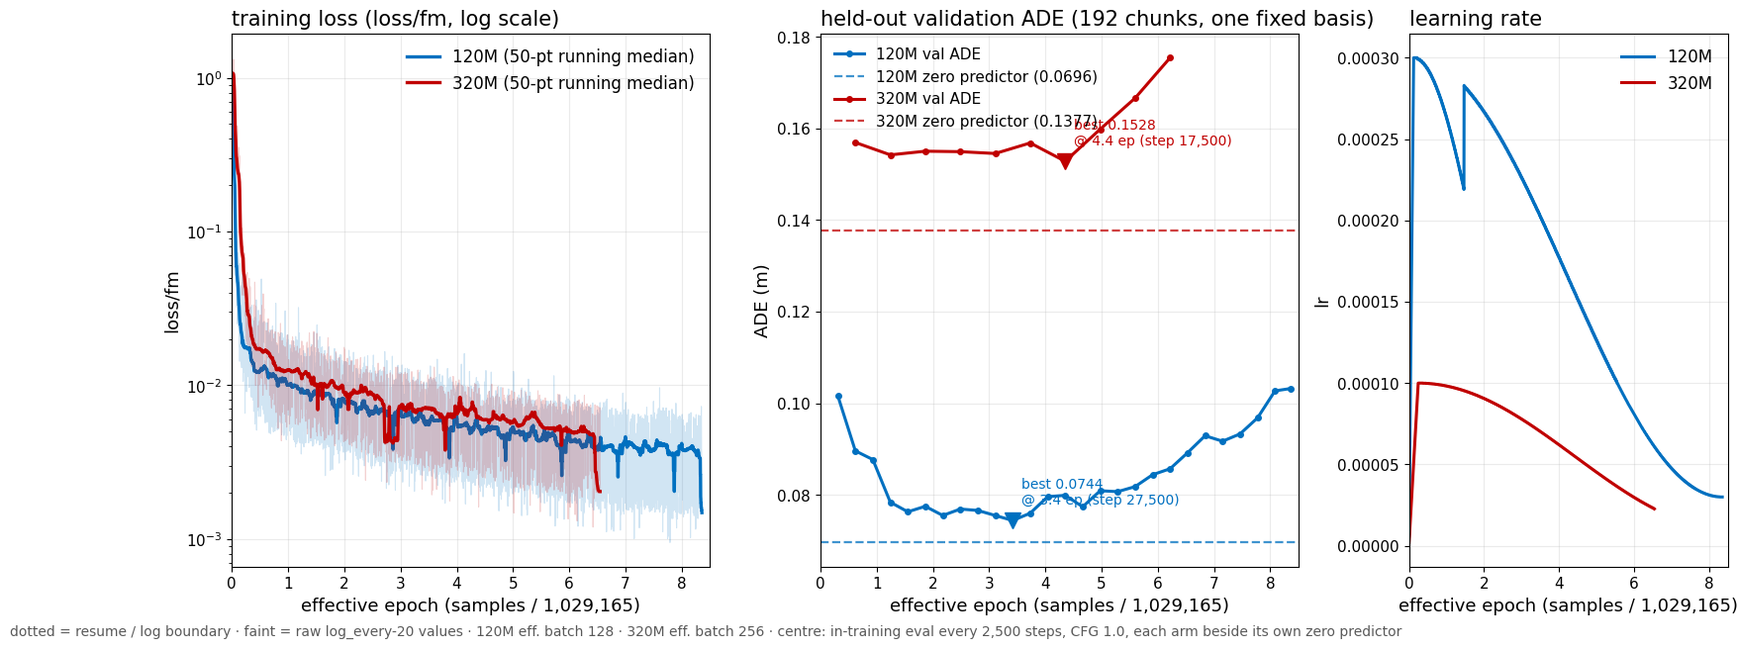
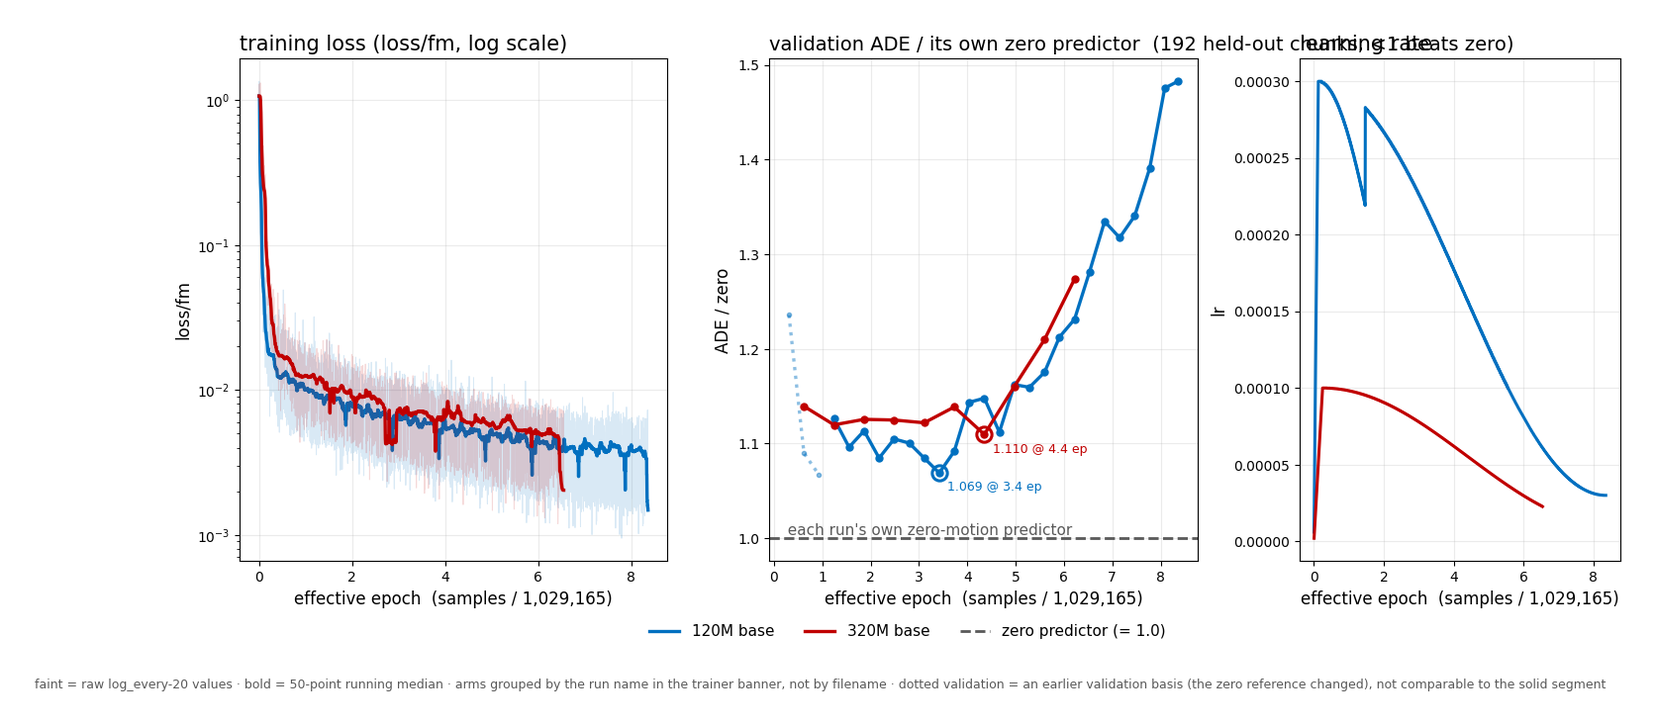
3d-wam deck #2-2: per-epoch update (2026-09-10 03:30 KST)
Claude-Session: https://claude.ai/code/session_01SMPxcWL3pAAD5cKRpfQpSb

diff --git a/experiments/3d-wam/decks/2026-09-09-s2-2-architecture-training/index.html b/experiments/3d-wam/decks/2026-09-09-s2-2-architecture-training/index.html
@@ -84,7 +84,7 @@
   .deck table.res.r5 th:nth-child(3){width:25%}
   .deck table.res.r5 th:nth-child(4){width:25%}
   .deck table.res.r5 th:nth-child(5){width:13%}
-  .deck .band.res2>figure.tb figcaption{text-align:left;font-size:1.3em}
+  .deck .band.res2>figure.tb figcaption{text-align:left;font-size:1.12em;line-height:1.28}
   /* ---- viz grids (outside the cap): 5 columns, rows = arm (5 + 4 tiles each), captions only ---- */
   .deck .s-viz h2{margin-bottom:.3em}
   .deck .s-viz .thesis{margin-bottom:.3em}
@@ -230,7 +230,7 @@
         <figcaption>The one metric and its three analyses</figcaption></figure>
     </div>
     <figure class="fig"><img src="assets/loss_curve.png" alt="Training loss and learning rate of both arms against effective epoch">
-      <figcaption>left: training loss · <b>centre: held-out validation ADE every 2,500 steps on one fixed 192-chunk basis, each arm beside its own zero predictor</b> · right: learning rate · 120M (blue), 320M (red) · loss/fm = masked MSE on the flow target, log_every 20; bold = 50-point running median, faint = raw; dotted = resume / log boundary (120M: steps 9,213 → 2 GPU, 11,814 → 4 GPU; schedule extended to 67,200 at 11,814) · regenerated from season2/logs at every deck update</figcaption></figure>
+      <figcaption>left: training loss · <b>centre: held-out validation ADE &divide; each run&rsquo;s OWN zero predictor, every 2,500 steps (1.0 dashed = the zero predictor; below 1.0 would beat it &mdash; neither base ever does; dotted = an earlier validation basis, excluded)</b> · right: learning rate · 120M (blue), 320M (red) · loss/fm = masked MSE on the flow target, log_every 20; bold = 50-point running median, faint = raw; dotted = resume / log boundary (120M: steps 9,213 → 2 GPU, 11,814 → 4 GPU; schedule extended to 67,200 at 11,814) · regenerated from season2/logs at every deck update</figcaption></figure>
   </div>
   <p class="footnote">mEPE = EPE3D on the moving subset (after Chodosh 2023) with the zero-velocity reference (Martinez 2017); owner-confirmed 09-09 14:10 · TACO Je/Te/Re companion · training logs season2/logs/</p>
 </section>
@@ -256,7 +256,7 @@
 </div>
 <!-- /GEN -->
   <!-- GEN:etabar -->
-<p class="etabar"><b>ETA</b> (from 03:20 KST) · <b>120M base</b>: all reads in &nbsp;|&nbsp; <b>320M base</b> · ep07 lands 03:24 (+0.1 h) · read <b>~04:10</b> · ep08 8.00 ep lands <b>06:17</b> (+3.0 h) → read <b>~07:00</b> &nbsp;|&nbsp; <b>C2 batch</b> · ep01 lands 04:55 (+1.6 h) · read unestimated</b> · 4 more, ~2.0 h apart · ep06 6.00 ep lands <b>14:55</b> (+11.6 h) → read <b>~—</b> &nbsp;|&nbsp; <b>C2 batch + history</b> · ep01 lands — (unestimated) · read unestimated</b> · 4 more · ep06 6.00 ep lands <b>—</b> (unestimated) → read <b>~—</b> &nbsp;|&nbsp; <b>C2 batch + contact aux</b> · ep01 lands — (unestimated) · read unestimated</b> · 4 more · ep06 6.00 ep lands <b>—</b> (unestimated) → read <b>~—</b></p>
+<p class="etabar"><b>ETA</b> (from 03:30 KST) · <b>120M base</b>: all reads in &nbsp;|&nbsp; <b>320M base</b> · ep07 landed 03:24 (-0.1 h) · read <b>~04:10</b> · ep08 8.00 ep lands <b>06:17</b> (+2.8 h) → read <b>~07:00</b> &nbsp;|&nbsp; <b>C2 batch</b> · ep01 lands 04:55 (+1.4 h) · read unestimated</b> · 4 more, ~2.0 h apart · ep06 6.00 ep lands <b>14:55</b> (+11.4 h) → read <b>~—</b> &nbsp;|&nbsp; <b>C2 batch + history</b> · ep01 lands — (unestimated) · read unestimated</b> · 4 more · ep06 6.00 ep lands <b>—</b> (unestimated) → read <b>~—</b> &nbsp;|&nbsp; <b>C2 batch + contact aux</b> · ep01 lands — (unestimated) · read unestimated</b> · 4 more · ep06 6.00 ep lands <b>—</b> (unestimated) → read <b>~—</b></p>
 <!-- /GEN -->
   <p class="footnote">eff. epoch = steps × eff. batch / 1,029,165 · zero = zero-velocity predictor · every epoch scored on the SAME 7 held-out clips (re-pooled 03:15) · clips on the next seven slides</p>
 </section>
@@ -284,7 +284,7 @@
     <figure><img src="assets/320m/ep04/roll/dexycb_292_ar.gif" alt="dexycb “grasp the tomato soup can”: ground truth left, rollout right (320M base, ep04)" loading="lazy" style="background:url(assets/320m/ep04/roll/dexycb_292_ar.jpg) center/contain no-repeat"><figcaption>320M base · step 16,080 · 4.00 ep</figcaption></figure>
     <figure><img src="assets/320m/ep05/roll/dexycb_292_ar.gif" alt="dexycb “grasp the tomato soup can”: ground truth left, rollout right (320M base, ep05)" loading="lazy" style="background:url(assets/320m/ep05/roll/dexycb_292_ar.jpg) center/contain no-repeat"><figcaption>320M base · step 20,100 · 5.00 ep</figcaption></figure>
     <figure><img src="assets/320m/ep06/roll/dexycb_292_ar.gif" alt="dexycb “grasp the tomato soup can”: ground truth left, rollout right (320M base, ep06)" loading="lazy" style="background:url(assets/320m/ep06/roll/dexycb_292_ar.jpg) center/contain no-repeat"><figcaption>320M base · step 24,120 · 6.00 ep</figcaption></figure>
-    <figure class="phold"><div class="pbox"><b>WILL UPDATE</b><span>lands 03:24 · ~04:10</span></div><figcaption>320M base · step 28,140 · 7.00 ep</figcaption></figure>
+    <figure class="phold"><div class="pbox"><b>WILL UPDATE</b><span>landed 03:24 · ~04:10</span></div><figcaption>320M base · step 28,140 · 7.00 ep</figcaption></figure>
     <figure class="phold"><div class="pbox"><b>WILL UPDATE</b><span>lands 06:17 · ~07:00</span></div><figcaption>320M base · step 32,160 · 8.00 ep</figcaption></figure>
     <figure class="phold"><div class="pbox"><b>WILL UPDATE</b><span>no checkpoint (24 h cap)</span></div><figcaption>320M base · final · not scheduled</figcaption></figure>
     <div class="rowlab" style="color:#2a9d4f">C2 batch · eff. batch 32</div>
@@ -342,7 +342,7 @@
     <figure><img src="assets/320m/ep04/roll/hoi4d_2613_ar.gif" alt="hoi4d “pick and place the kettle”: ground truth left, rollout right (320M base, ep04)" loading="lazy" style="background:url(assets/320m/ep04/roll/hoi4d_2613_ar.jpg) center/contain no-repeat"><figcaption>320M base · step 16,080 · 4.00 ep</figcaption></figure>
     <figure><img src="assets/320m/ep05/roll/hoi4d_2613_ar.gif" alt="hoi4d “pick and place the kettle”: ground truth left, rollout right (320M base, ep05)" loading="lazy" style="background:url(assets/320m/ep05/roll/hoi4d_2613_ar.jpg) center/contain no-repeat"><figcaption>320M base · step 20,100 · 5.00 ep</figcaption></figure>
     <figure><img src="assets/320m/ep06/roll/hoi4d_2613_ar.gif" alt="hoi4d “pick and place the kettle”: ground truth left, rollout right (320M base, ep06)" loading="lazy" style="background:url(assets/320m/ep06/roll/hoi4d_2613_ar.jpg) center/contain no-repeat"><figcaption>320M base · step 24,120 · 6.00 ep</figcaption></figure>
-    <figure class="phold"><div class="pbox"><b>WILL UPDATE</b><span>lands 03:24 · ~04:10</span></div><figcaption>320M base · step 28,140 · 7.00 ep</figcaption></figure>
+    <figure class="phold"><div class="pbox"><b>WILL UPDATE</b><span>landed 03:24 · ~04:10</span></div><figcaption>320M base · step 28,140 · 7.00 ep</figcaption></figure>
     <figure class="phold"><div class="pbox"><b>WILL UPDATE</b><span>lands 06:17 · ~07:00</span></div><figcaption>320M base · step 32,160 · 8.00 ep</figcaption></figure>
     <figure class="phold"><div class="pbox"><b>WILL UPDATE</b><span>no checkpoint (24 h cap)</span></div><figcaption>320M base · final · not scheduled</figcaption></figure>
     <div class="rowlab" style="color:#2a9d4f">C2 batch · eff. batch 32</div>
@@ -400,7 +400,7 @@
     <figure><img src="assets/320m/ep04/roll/hot3d_4293_ar.gif" alt="hot3d “interact with the potato masher and the can tomato sauce”: ground truth left, rollout right (320M base, ep04)" loading="lazy" style="background:url(assets/320m/ep04/roll/hot3d_4293_ar.jpg) center/contain no-repeat"><figcaption>320M base · step 16,080 · 4.00 ep</figcaption></figure>
     <figure><img src="assets/320m/ep05/roll/hot3d_4293_ar.gif" alt="hot3d “interact with the potato masher and the can tomato sauce”: ground truth left, rollout right (320M base, ep05)" loading="lazy" style="background:url(assets/320m/ep05/roll/hot3d_4293_ar.jpg) center/contain no-repeat"><figcaption>320M base · step 20,100 · 5.00 ep</figcaption></figure>
     <figure><img src="assets/320m/ep06/roll/hot3d_4293_ar.gif" alt="hot3d “interact with the potato masher and the can tomato sauce”: ground truth left, rollout right (320M base, ep06)" loading="lazy" style="background:url(assets/320m/ep06/roll/hot3d_4293_ar.jpg) center/contain no-repeat"><figcaption>320M base · step 24,120 · 6.00 ep</figcaption></figure>
-    <figure class="phold"><div class="pbox"><b>WILL UPDATE</b><span>lands 03:24 · ~04:10</span></div><figcaption>320M base · step 28,140 · 7.00 ep</figcaption></figure>
+    <figure class="phold"><div class="pbox"><b>WILL UPDATE</b><span>landed 03:24 · ~04:10</span></div><figcaption>320M base · step 28,140 · 7.00 ep</figcaption></figure>
     <figure class="phold"><div class="pbox"><b>WILL UPDATE</b><span>lands 06:17 · ~07:00</span></div><figcaption>320M base · step 32,160 · 8.00 ep</figcaption></figure>
     <figure class="phold"><div class="pbox"><b>WILL UPDATE</b><span>no checkpoint (24 h cap)</span></div><figcaption>320M base · final · not scheduled</figcaption></figure>
     <div class="rowlab" style="color:#2a9d4f">C2 batch · eff. batch 32</div>
@@ -458,7 +458,7 @@
     <figure><img src="assets/320m/ep04/roll/arctic_0_ar.gif" alt="arctic “grab the box”: ground truth left, rollout right (320M base, ep04)" loading="lazy" style="background:url(assets/320m/ep04/roll/arctic_0_ar.jpg) center/contain no-repeat"><figcaption>320M base · step 16,080 · 4.00 ep</figcaption></figure>
     <figure><img src="assets/320m/ep05/roll/arctic_0_ar.gif" alt="arctic “grab the box”: ground truth left, rollout right (320M base, ep05)" loading="lazy" style="background:url(assets/320m/ep05/roll/arctic_0_ar.jpg) center/contain no-repeat"><figcaption>320M base · step 20,100 · 5.00 ep</figcaption></figure>
     <figure><img src="assets/320m/ep06/roll/arctic_0_ar.gif" alt="arctic “grab the box”: ground truth left, rollout right (320M base, ep06)" loading="lazy" style="background:url(assets/320m/ep06/roll/arctic_0_ar.jpg) center/contain no-repeat"><figcaption>320M base · step 24,120 · 6.00 ep</figcaption></figure>
-    <figure class="phold"><div class="pbox"><b>WILL UPDATE</b><span>lands 03:24 · ~04:10</span></div><figcaption>320M base · step 28,140 · 7.00 ep</figcaption></figure>
+    <figure class="phold"><div class="pbox"><b>WILL UPDATE</b><span>landed 03:24 · ~04:10</span></div><figcaption>320M base · step 28,140 · 7.00 ep</figcaption></figure>
     <figure class="phold"><div class="pbox"><b>WILL UPDATE</b><span>lands 06:17 · ~07:00</span></div><figcaption>320M base · step 32,160 · 8.00 ep</figcaption></figure>
     <figure class="phold"><div class="pbox"><b>WILL UPDATE</b><span>no checkpoint (24 h cap)</span></div><figcaption>320M base · final · not scheduled</figcaption></figure>
     <div class="rowlab" style="color:#2a9d4f">C2 batch · eff. batch 32</div>
@@ -516,7 +516,7 @@
     <figure><img src="assets/320m/ep04/roll/grab_1312_ar.gif" alt="grab “lift the cup”: ground truth left, rollout right (320M base, ep04)" loading="lazy" style="background:url(assets/320m/ep04/roll/grab_1312_ar.jpg) center/contain no-repeat"><figcaption>320M base · step 16,080 · 4.00 ep</figcaption></figure>
     <figure><img src="assets/320m/ep05/roll/grab_1312_ar.gif" alt="grab “lift the cup”: ground truth left, rollout right (320M base, ep05)" loading="lazy" style="background:url(assets/320m/ep05/roll/grab_1312_ar.jpg) center/contain no-repeat"><figcaption>320M base · step 20,100 · 5.00 ep</figcaption></figure>
     <figure><img src="assets/320m/ep06/roll/grab_1312_ar.gif" alt="grab “lift the cup”: ground truth left, rollout right (320M base, ep06)" loading="lazy" style="background:url(assets/320m/ep06/roll/grab_1312_ar.jpg) center/contain no-repeat"><figcaption>320M base · step 24,120 · 6.00 ep</figcaption></figure>
-    <figure class="phold"><div class="pbox"><b>WILL UPDATE</b><span>lands 03:24 · ~04:10</span></div><figcaption>320M base · step 28,140 · 7.00 ep</figcaption></figure>
+    <figure class="phold"><div class="pbox"><b>WILL UPDATE</b><span>landed 03:24 · ~04:10</span></div><figcaption>320M base · step 28,140 · 7.00 ep</figcaption></figure>
     <figure class="phold"><div class="pbox"><b>WILL UPDATE</b><span>lands 06:17 · ~07:00</span></div><figcaption>320M base · step 32,160 · 8.00 ep</figcaption></figure>
     <figure class="phold"><div class="pbox"><b>WILL UPDATE</b><span>no checkpoint (24 h cap)</span></div><figcaption>320M base · final · not scheduled</figcaption></figure>
     <div class="rowlab" style="color:#2a9d4f">C2 batch · eff. batch 32</div>
@@ -574,7 +574,7 @@
     <figure><img src="assets/320m/ep04/roll/oakink2_4588_ar.gif" alt="oakink2 “Weigh something with scale by pouring it into the bowl.”: ground truth left, rollout right (320M base, ep04)" loading="lazy" style="background:url(assets/320m/ep04/roll/oakink2_4588_ar.jpg) center/contain no-repeat"><figcaption>320M base · step 16,080 · 4.00 ep</figcaption></figure>
     <figure><img src="assets/320m/ep05/roll/oakink2_4588_ar.gif" alt="oakink2 “Weigh something with scale by pouring it into the bowl.”: ground truth left, rollout right (320M base, ep05)" loading="lazy" style="background:url(assets/320m/ep05/roll/oakink2_4588_ar.jpg) center/contain no-repeat"><figcaption>320M base · step 20,100 · 5.00 ep</figcaption></figure>
     <figure><img src="assets/320m/ep06/roll/oakink2_4588_ar.gif" alt="oakink2 “Weigh something with scale by pouring it into the bowl.”: ground truth left, rollout right (320M base, ep06)" loading="lazy" style="background:url(assets/320m/ep06/roll/oakink2_4588_ar.jpg) center/contain no-repeat"><figcaption>320M base · step 24,120 · 6.00 ep</figcaption></figure>
-    <figure class="phold"><div class="pbox"><b>WILL UPDATE</b><span>lands 03:24 · ~04:10</span></div><figcaption>320M base · step 28,140 · 7.00 ep</figcaption></figure>
+    <figure class="phold"><div class="pbox"><b>WILL UPDATE</b><span>landed 03:24 · ~04:10</span></div><figcaption>320M base · step 28,140 · 7.00 ep</figcaption></figure>
     <figure class="phold"><div class="pbox"><b>WILL UPDATE</b><span>lands 06:17 · ~07:00</span></div><figcaption>320M base · step 32,160 · 8.00 ep</figcaption></figure>
     <figure class="phold"><div class="pbox"><b>WILL UPDATE</b><span>no checkpoint (24 h cap)</span></div><figcaption>320M base · final · not scheduled</figcaption></figure>
     <div class="rowlab" style="color:#2a9d4f">C2 batch · eff. batch 32</div>
@@ -632,7 +632,7 @@
     <figure><img src="assets/320m/ep04/roll/taco_7606_ar.gif" alt="taco “put in the pan with the bowl”: ground truth left, rollout right (320M base, ep04)" loading="lazy" style="background:url(assets/320m/ep04/roll/taco_7606_ar.jpg) center/contain no-repeat"><figcaption>320M base · step 16,080 · 4.00 ep</figcaption></figure>
     <figure><img src="assets/320m/ep05/roll/taco_7606_ar.gif" alt="taco “put in the pan with the bowl”: ground truth left, rollout right (320M base, ep05)" loading="lazy" style="background:url(assets/320m/ep05/roll/taco_7606_ar.jpg) center/contain no-repeat"><figcaption>320M base · step 20,100 · 5.00 ep</figcaption></figure>
     <figure><img src="assets/320m/ep06/roll/taco_7606_ar.gif" alt="taco “put in the pan with the bowl”: ground truth left, rollout right (320M base, ep06)" loading="lazy" style="background:url(assets/320m/ep06/roll/taco_7606_ar.jpg) center/contain no-repeat"><figcaption>320M base · step 24,120 · 6.00 ep</figcaption></figure>
-    <figure class="phold"><div class="pbox"><b>WILL UPDATE</b><span>lands 03:24 · ~04:10</span></div><figcaption>320M base · step 28,140 · 7.00 ep</figcaption></figure>
+    <figure class="phold"><div class="pbox"><b>WILL UPDATE</b><span>landed 03:24 · ~04:10</span></div><figcaption>320M base · step 28,140 · 7.00 ep</figcaption></figure>
     <figure class="phold"><div class="pbox"><b>WILL UPDATE</b><span>lands 06:17 · ~07:00</span></div><figcaption>320M base · step 32,160 · 8.00 ep</figcaption></figure>
     <figure class="phold"><div class="pbox"><b>WILL UPDATE</b><span>no checkpoint (24 h cap)</span></div><figcaption>320M base · final · not scheduled</figcaption></figure>
     <div class="rowlab" style="color:#2a9d4f">C2 batch · eff. batch 32</div>
@@ -691,7 +691,7 @@
 </div>
 <!-- /GEN -->
   <!-- GEN:etabar -->
-<p class="etabar"><b>ETA</b> (from 03:20 KST) · <b>120M base</b>: all reads in &nbsp;|&nbsp; <b>320M base</b> · ep07 lands 03:24 (+0.1 h) · read <b>~04:10</b> · ep08 8.00 ep lands <b>06:17</b> (+3.0 h) → read <b>~07:00</b> &nbsp;|&nbsp; <b>C2 batch</b> · ep01 lands 04:55 (+1.6 h) · read unestimated</b> · 4 more, ~2.0 h apart · ep06 6.00 ep lands <b>14:55</b> (+11.6 h) → read <b>~—</b> &nbsp;|&nbsp; <b>C2 batch + history</b> · ep01 lands — (unestimated) · read unestimated</b> · 4 more · ep06 6.00 ep lands <b>—</b> (unestimated) → read <b>~—</b> &nbsp;|&nbsp; <b>C2 batch + contact aux</b> · ep01 lands — (unestimated) · read unestimated</b> · 4 more · ep06 6.00 ep lands <b>—</b> (unestimated) → read <b>~—</b></p>
+<p class="etabar"><b>ETA</b> (from 03:30 KST) · <b>120M base</b>: all reads in &nbsp;|&nbsp; <b>320M base</b> · ep07 landed 03:24 (-0.1 h) · read <b>~04:10</b> · ep08 8.00 ep lands <b>06:17</b> (+2.8 h) → read <b>~07:00</b> &nbsp;|&nbsp; <b>C2 batch</b> · ep01 lands 04:55 (+1.4 h) · read unestimated</b> · 4 more, ~2.0 h apart · ep06 6.00 ep lands <b>14:55</b> (+11.4 h) → read <b>~—</b> &nbsp;|&nbsp; <b>C2 batch + history</b> · ep01 lands — (unestimated) · read unestimated</b> · 4 more · ep06 6.00 ep lands <b>—</b> (unestimated) → read <b>~—</b> &nbsp;|&nbsp; <b>C2 batch + contact aux</b> · ep01 lands — (unestimated) · read unestimated</b> · 4 more · ep06 6.00 ep lands <b>—</b> (unestimated) → read <b>~—</b></p>
 <!-- /GEN -->
   <p class="footnote">H = 4 replans, timestep-matched to the observed points; table-anchored origin · success = task success over 3 episodes · composites on the next slide</p>
 </section>
@@ -719,7 +719,7 @@
     <figure><video src="assets/320m/ep04/gr1/episode_00_composite.mp4" poster="assets/320m/ep04/gr1/episode_00_composite.jpg" autoplay loop muted playsinline preload="metadata"></video><figcaption>320M base · step 16,080 · 4.00 ep</figcaption></figure>
     <figure><video src="assets/320m/ep05/gr1/episode_00_composite.mp4" poster="assets/320m/ep05/gr1/episode_00_composite.jpg" autoplay loop muted playsinline preload="metadata"></video><figcaption>320M base · step 20,100 · 5.00 ep</figcaption></figure>
     <figure><video src="assets/320m/ep06/gr1/episode_00_composite.mp4" poster="assets/320m/ep06/gr1/episode_00_composite.jpg" autoplay loop muted playsinline preload="metadata"></video><figcaption>320M base · step 24,120 · 6.00 ep</figcaption></figure>
-    <figure class="phold"><div class="pbox"><b>WILL UPDATE</b><span>lands 03:24 · ~04:10</span></div><figcaption>320M base · step 28,140 · 7.00 ep</figcaption></figure>
+    <figure class="phold"><div class="pbox"><b>WILL UPDATE</b><span>landed 03:24 · ~04:10</span></div><figcaption>320M base · step 28,140 · 7.00 ep</figcaption></figure>
     <figure class="phold"><div class="pbox"><b>WILL UPDATE</b><span>lands 06:17 · ~07:00</span></div><figcaption>320M base · step 32,160 · 8.00 ep</figcaption></figure>
     <figure class="phold"><div class="pbox"><b>WILL UPDATE</b><span>no checkpoint (24 h cap)</span></div><figcaption>320M base · final · not scheduled</figcaption></figure>
     <div class="rowlab" style="color:#2a9d4f">C2 batch · eff. batch 32</div>
@@ -778,7 +778,7 @@
 </div>
 <!-- /GEN -->
   <!-- GEN:etabar -->
-<p class="etabar"><b>ETA</b> (from 03:20 KST) · <b>120M base</b>: all reads in &nbsp;|&nbsp; <b>320M base</b> · ep07 lands 03:24 (+0.1 h) · read <b>~04:10</b> · ep08 8.00 ep lands <b>06:17</b> (+3.0 h) → read <b>~07:00</b> &nbsp;|&nbsp; <b>C2 batch</b> · ep01 lands 04:55 (+1.6 h) · read unestimated</b> · 4 more, ~2.0 h apart · ep06 6.00 ep lands <b>14:55</b> (+11.6 h) → read <b>~—</b> &nbsp;|&nbsp; <b>C2 batch + history</b> · ep01 lands — (unestimated) · read unestimated</b> · 4 more · ep06 6.00 ep lands <b>—</b> (unestimated) → read <b>~—</b> &nbsp;|&nbsp; <b>C2 batch + contact aux</b> · ep01 lands — (unestimated) · read unestimated</b> · 4 more · ep06 6.00 ep lands <b>—</b> (unestimated) → read <b>~—</b></p>
+<p class="etabar"><b>ETA</b> (from 03:30 KST) · <b>120M base</b>: all reads in &nbsp;|&nbsp; <b>320M base</b> · ep07 landed 03:24 (-0.1 h) · read <b>~04:10</b> · ep08 8.00 ep lands <b>06:17</b> (+2.8 h) → read <b>~07:00</b> &nbsp;|&nbsp; <b>C2 batch</b> · ep01 lands 04:55 (+1.4 h) · read unestimated</b> · 4 more, ~2.0 h apart · ep06 6.00 ep lands <b>14:55</b> (+11.4 h) → read <b>~—</b> &nbsp;|&nbsp; <b>C2 batch + history</b> · ep01 lands — (unestimated) · read unestimated</b> · 4 more · ep06 6.00 ep lands <b>—</b> (unestimated) → read <b>~—</b> &nbsp;|&nbsp; <b>C2 batch + contact aux</b> · ep01 lands — (unestimated) · read unestimated</b> · 4 more · ep06 6.00 ep lands <b>—</b> (unestimated) → read <b>~—</b></p>
 <!-- /GEN -->
   <p class="footnote">'—' = not measured (no GT object point moved > 2 cm), not zero error · H = 4 replans, timestep-matched · composites on the next slide</p>
 </section>
@@ -806,7 +806,7 @@
     <figure><video src="assets/320m/ep04/dexjoco/episode_00_composite.mp4" poster="assets/320m/ep04/dexjoco/episode_00_composite.jpg" autoplay loop muted playsinline preload="metadata"></video><figcaption>320M base · step 16,080 · 4.00 ep</figcaption></figure>
     <figure><video src="assets/320m/ep05/dexjoco/episode_00_composite.mp4" poster="assets/320m/ep05/dexjoco/episode_00_composite.jpg" autoplay loop muted playsinline preload="metadata"></video><figcaption>320M base · step 20,100 · 5.00 ep</figcaption></figure>
     <figure><video src="assets/320m/ep06/dexjoco/episode_00_composite.mp4" poster="assets/320m/ep06/dexjoco/episode_00_composite.jpg" autoplay loop muted playsinline preload="metadata"></video><figcaption>320M base · step 24,120 · 6.00 ep</figcaption></figure>
-    <figure class="phold"><div class="pbox"><b>WILL UPDATE</b><span>lands 03:24 · ~04:10</span></div><figcaption>320M base · step 28,140 · 7.00 ep</figcaption></figure>
+    <figure class="phold"><div class="pbox"><b>WILL UPDATE</b><span>landed 03:24 · ~04:10</span></div><figcaption>320M base · step 28,140 · 7.00 ep</figcaption></figure>
     <figure class="phold"><div class="pbox"><b>WILL UPDATE</b><span>lands 06:17 · ~07:00</span></div><figcaption>320M base · step 32,160 · 8.00 ep</figcaption></figure>
     <figure class="phold"><div class="pbox"><b>WILL UPDATE</b><span>no checkpoint (24 h cap)</span></div><figcaption>320M base · final · not scheduled</figcaption></figure>
     <div class="rowlab" style="color:#2a9d4f">C2 batch · eff. batch 32</div>
@@ -853,18 +853,18 @@
     <figure class="tb run"><table class="sum run">
       <thead><tr><th>running</th><th>compute</th><th>progress</th><th>rate</th><th>lands</th></tr></thead>
       <tbody>
-        <tr><td>120M · job 11270</td><td>4× H100 (iclr2027-gpu)</td><td>step 67,200 of 67,200 (8.36 of 8.36 ep)</td><td>0.71 s/step</td><td>00:53 (-2.5 h)</td></tr>
-        <tr><td>320M (MLXP)</td><td>4× H200 (MLXP)</td><td>step 26,320 of 32,160 (6.55 of 8.00 ep) · 24 h cap</td><td>2.57 s/step</td><td>06:17 (+3.0 h)</td></tr>
-        <tr><td>C2 batch · job 11922</td><td>4× H100 (iclr2027-gpu)</td><td>step 0 of 192,966 (0.00 of 6.00 ep)</td><td>0.22 s/step</td><td>14:55 (+11.6 h)</td></tr>
+        <tr><td>120M · job 11270</td><td>4× H100 (iclr2027-gpu)</td><td>step 67,200 of 67,200 (8.36 of 8.36 ep)</td><td>0.71 s/step</td><td>00:53 (-2.6 h)</td></tr>
+        <tr><td>320M (MLXP)</td><td>4× H200 (MLXP)</td><td>step 26,320 of 32,160 (6.55 of 8.00 ep) · 24 h cap</td><td>2.57 s/step</td><td>06:17 (+2.8 h)</td></tr>
+        <tr><td>C2 batch · job 11922</td><td>4× H100 (iclr2027-gpu)</td><td>step 0 of 192,966 (0.00 of 6.00 ep)</td><td>0.22 s/step</td><td>14:55 (+11.4 h)</td></tr>
         <tr><td>C2 batch + history (MLXP)</td><td>4× H200 (MLXP)</td><td>step 0 of 192,966 (0.00 of 6.00 ep)</td><td>—</td><td>— (unestimated)</td></tr>
         <tr><td>C2 batch + contact aux</td><td>4× GPU</td><td>step 0 of 192,966 (0.00 of 6.00 ep)</td><td>—</td><td>— (unestimated)</td></tr>
       </tbody></table>
-      <figcaption>What is running · progress as of 03:20 KST · eff. epoch = steps × eff. batch ÷ 1,029,165</figcaption></figure>
+      <figcaption>What is running · progress as of 03:30 KST · eff. epoch = steps × eff. batch ÷ 1,029,165</figcaption></figure>
     <figure class="tb"><table class="sum due">
       <thead><tr><th>due (no input)</th><th>hours</th><th>when</th></tr></thead>
       <tbody>
-        <tr><td>320M base ep07 read</td><td>+0.8 h</td><td>04:10</td></tr>
-        <tr><td>320M base ep08 read</td><td>+3.7 h</td><td>07:00</td></tr>
+        <tr><td>320M base ep07 read</td><td>+0.7 h</td><td>04:10</td></tr>
+        <tr><td>320M base ep08 read</td><td>+3.5 h</td><td>07:00</td></tr>
         <tr><td>C2 batch ep01 read</td><td>unestimated</td><td>—</td></tr>
         <tr><td>C2 batch ep02 read</td><td>unestimated</td><td>—</td></tr>
         <tr><td>C2 batch ep03 read</td><td>unestimated</td><td>—</td></tr>
@@ -884,7 +884,7 @@
       <figcaption>C2 (last config that beat zero): batch 32 · history H=2 · stopped at 4.15 ep. The base: batch 128 · no history · 8.36 ep.</figcaption></figure>
   </div>
   <!-- GEN:etabar -->
-<p class="etabar"><b>ETA</b> (from 03:20 KST) · <b>120M base</b>: all reads in &nbsp;|&nbsp; <b>320M base</b> · ep07 lands 03:24 (+0.1 h) · read <b>~04:10</b> · ep08 8.00 ep lands <b>06:17</b> (+3.0 h) → read <b>~07:00</b> &nbsp;|&nbsp; <b>C2 batch</b> · ep01 lands 04:55 (+1.6 h) · read unestimated</b> · 4 more, ~2.0 h apart · ep06 6.00 ep lands <b>14:55</b> (+11.6 h) → read <b>~—</b> &nbsp;|&nbsp; <b>C2 batch + history</b> · ep01 lands — (unestimated) · read unestimated</b> · 4 more · ep06 6.00 ep lands <b>—</b> (unestimated) → read <b>~—</b> &nbsp;|&nbsp; <b>C2 batch + contact aux</b> · ep01 lands — (unestimated) · read unestimated</b> · 4 more · ep06 6.00 ep lands <b>—</b> (unestimated) → read <b>~—</b></p>
+<p class="etabar"><b>ETA</b> (from 03:30 KST) · <b>120M base</b>: all reads in &nbsp;|&nbsp; <b>320M base</b> · ep07 landed 03:24 (-0.1 h) · read <b>~04:10</b> · ep08 8.00 ep lands <b>06:17</b> (+2.8 h) → read <b>~07:00</b> &nbsp;|&nbsp; <b>C2 batch</b> · ep01 lands 04:55 (+1.4 h) · read unestimated</b> · 4 more, ~2.0 h apart · ep06 6.00 ep lands <b>14:55</b> (+11.4 h) → read <b>~—</b> &nbsp;|&nbsp; <b>C2 batch + history</b> · ep01 lands — (unestimated) · read unestimated</b> · 4 more · ep06 6.00 ep lands <b>—</b> (unestimated) → read <b>~—</b> &nbsp;|&nbsp; <b>C2 batch + contact aux</b> · ep01 lands — (unestimated) · read unestimated</b> · 4 more · ep06 6.00 ep lands <b>—</b> (unestimated) → read <b>~—</b></p>
 <!-- /GEN -->
 </section>
 
